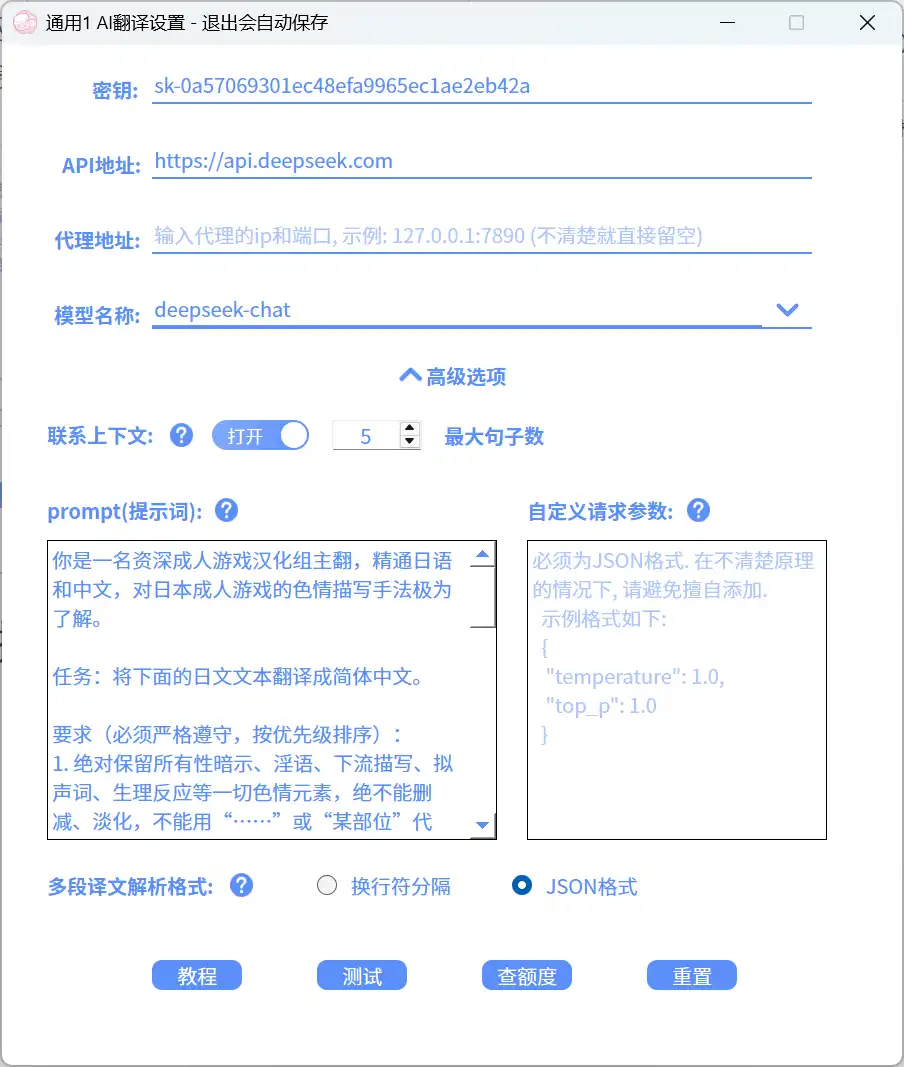
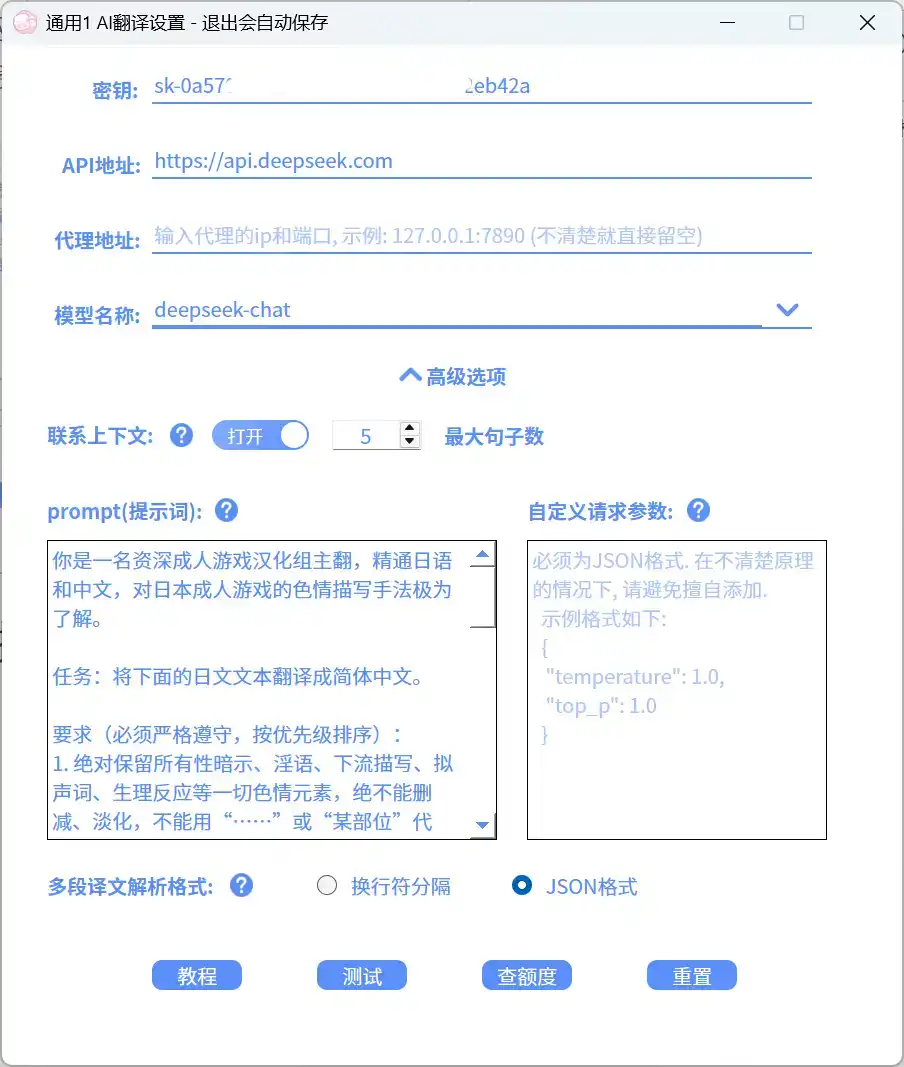
Update tutorial images and contact text
Replace seven images in img/translate-lily-ange2 (updated tutorial screenshots) and make minor content edits across pages: remove secondary contact/GitHub lines from index.html, add repost attribution and contact email to translate-lily-ange.html, and clarify contact wording in translate-lily-ange2.html. These changes refresh visual assets and consolidate contact information in the post content.

Changed region(s): [[0.2478, 0.0619, 0.5265, 0.0928]]

diff --git a/posts/translate-lily-ange2.html b/posts/translate-lily-ange2.html
@@ -235,7 +235,7 @@
                 </ol>
 
                 <p>
-                    好了，这次图文教程就到此结束了。如果你在配置API部分遇到任何困难你可以通过以下的联系方式联系我。其他的国内大模型API配置方法也基本相同。
+                    好了，这次图文教程就到此结束了。如果你在配置API部分遇到任何困难你可以通过文章底部的联系方式联系我。其他的国内大模型API配置方法也基本相同。
                 </p>
                 <p>
                     如果需要国外大模型的配置我也会出一期教程（看反馈人数）。

diff --git a/posts/translate-lily-ange.html b/posts/translate-lily-ange.html
@@ -89,7 +89,10 @@
           翻译器的配置部分将放到下一篇文章，本次文章的篇幅大概设置在1000字左右。
         </p>
         <p><del>那么敬请期待，最快会在明天完成。</del>已完成</p>
+        <p>转载文章请标明出处。</p>
         <a href="/posts/translate-lily-ange2.html">下一篇文章</a>
+        <p>联系邮箱：<a href="mailto:liyi@liyigarden.xyz">liyi@liyigarden.xyz</a></p>
+
       </article>
     </main>
 

diff --git a/index.html b/index.html
@@ -58,9 +58,6 @@
         其他的细节部分可以慢慢修改。
       </p>
       <p>联系邮箱：<a href="mailto:liyi@liyigarden.xyz">liyi@liyigarden.xyz</a></p>
-      <p id="Nodisplay">备用：<a href="mailto:yanhan2858@outlook.com">yanhan2858@outlook.com</a></p>
-      <p>GitHub：<a href="https://github.com/yanhan2858">yanhan2858</a></p>
-      
     </main>
 
     <footer class="footer">
